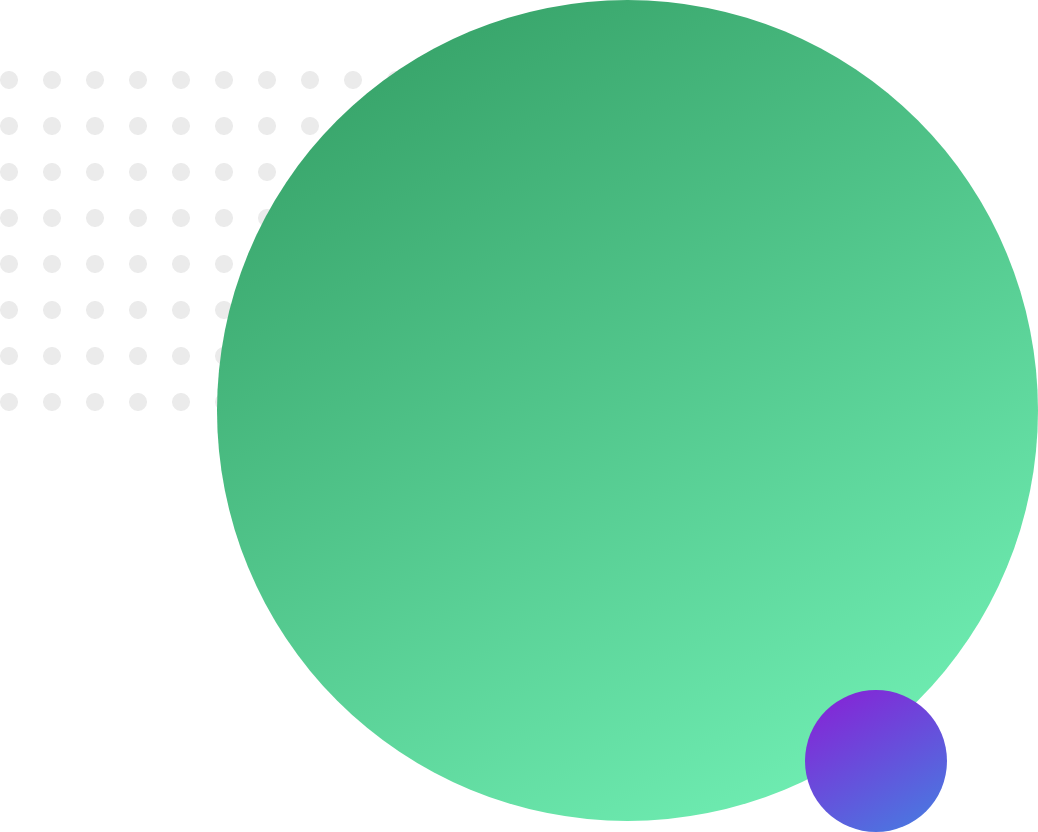
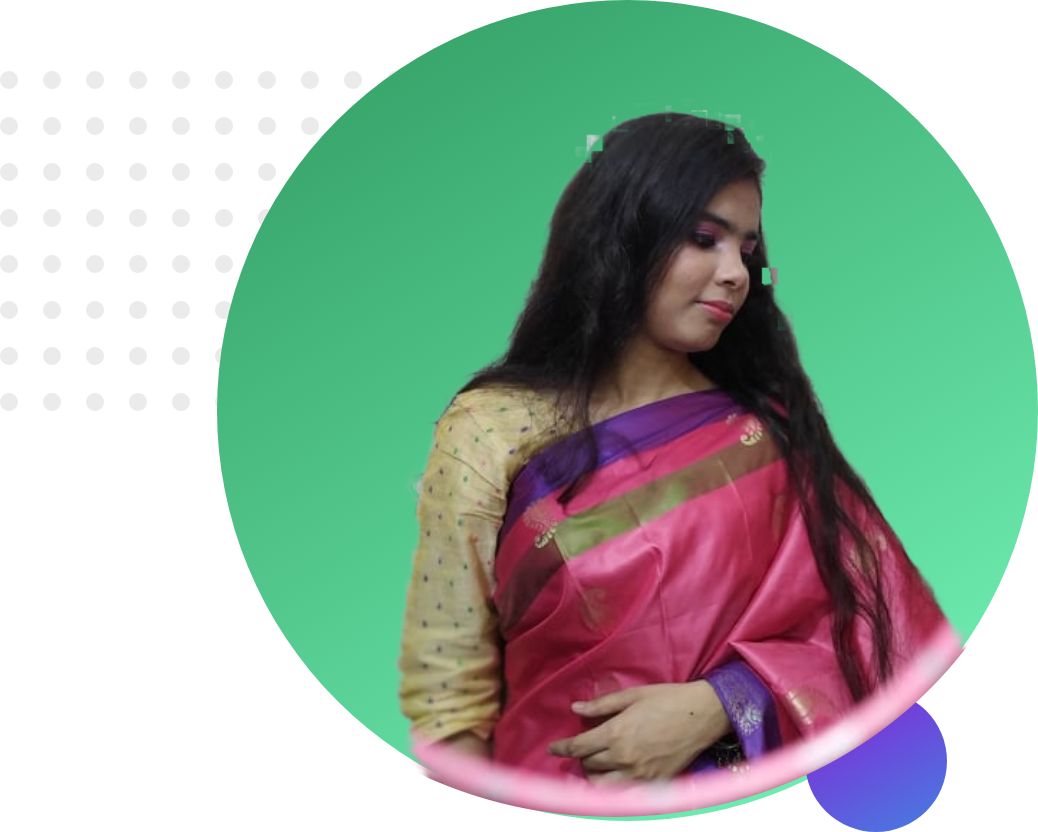
finally done

Changed region(s): [[0.3699, 0.125, 0.9249, 1.0]]

diff --git a/index.html b/index.html
@@ -17,7 +17,7 @@
             <a class = "link-button"target = "_blank" href="https://www.linkedin.com/in/sanjana-yesmin-a673971b4/">Hire me</a>
             </div>
             <div class = "half-width">
-                <img src="images/Capture.PNG" alt="My picture">
+                <img src="images/image 13.png" alt="My picture">
             </div>
         </section>
         <section class = "dream">
